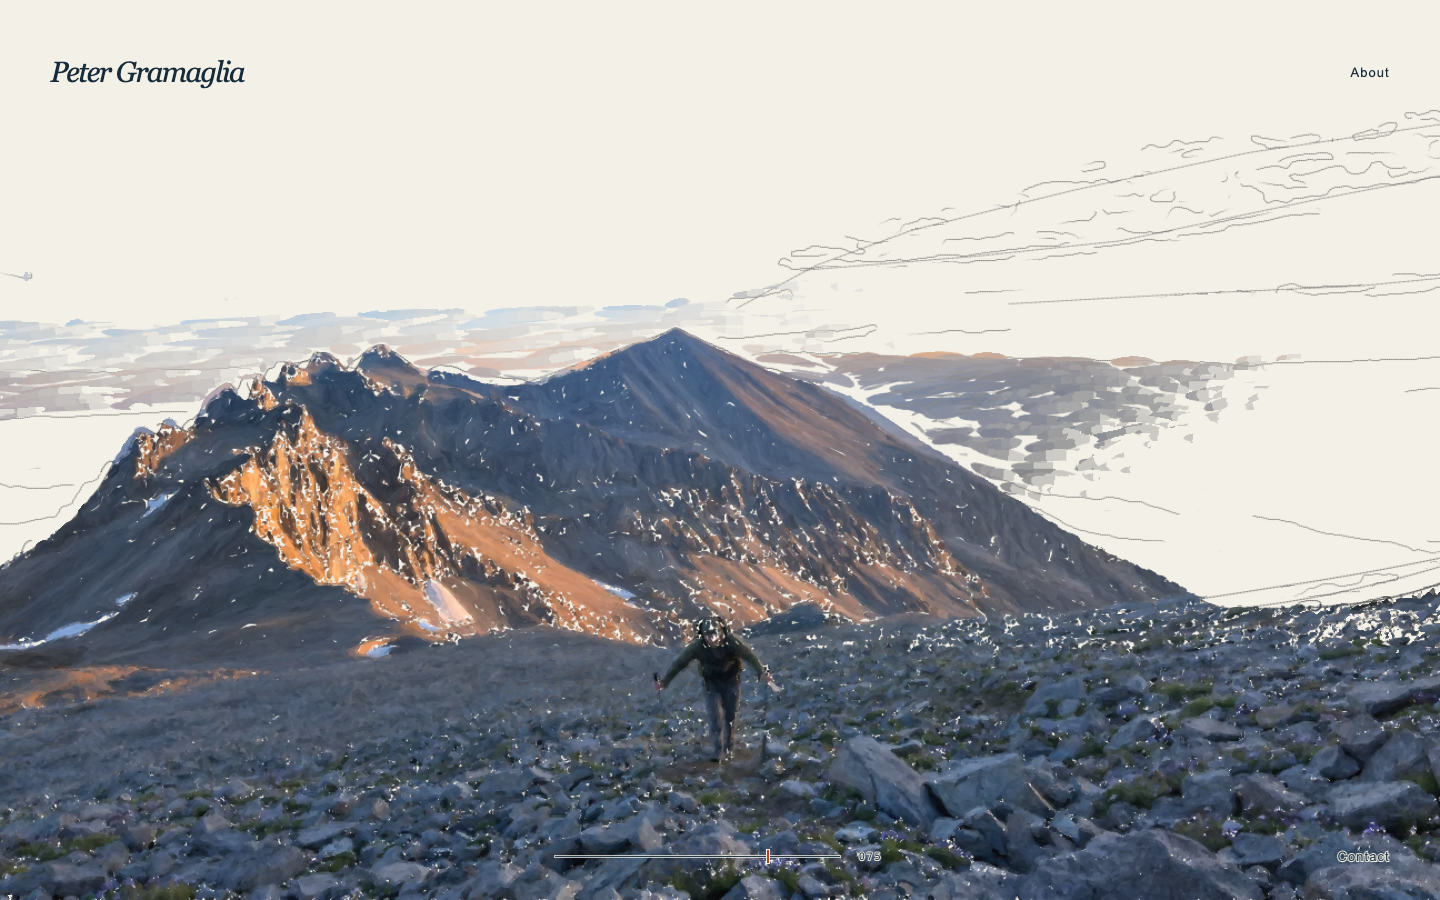
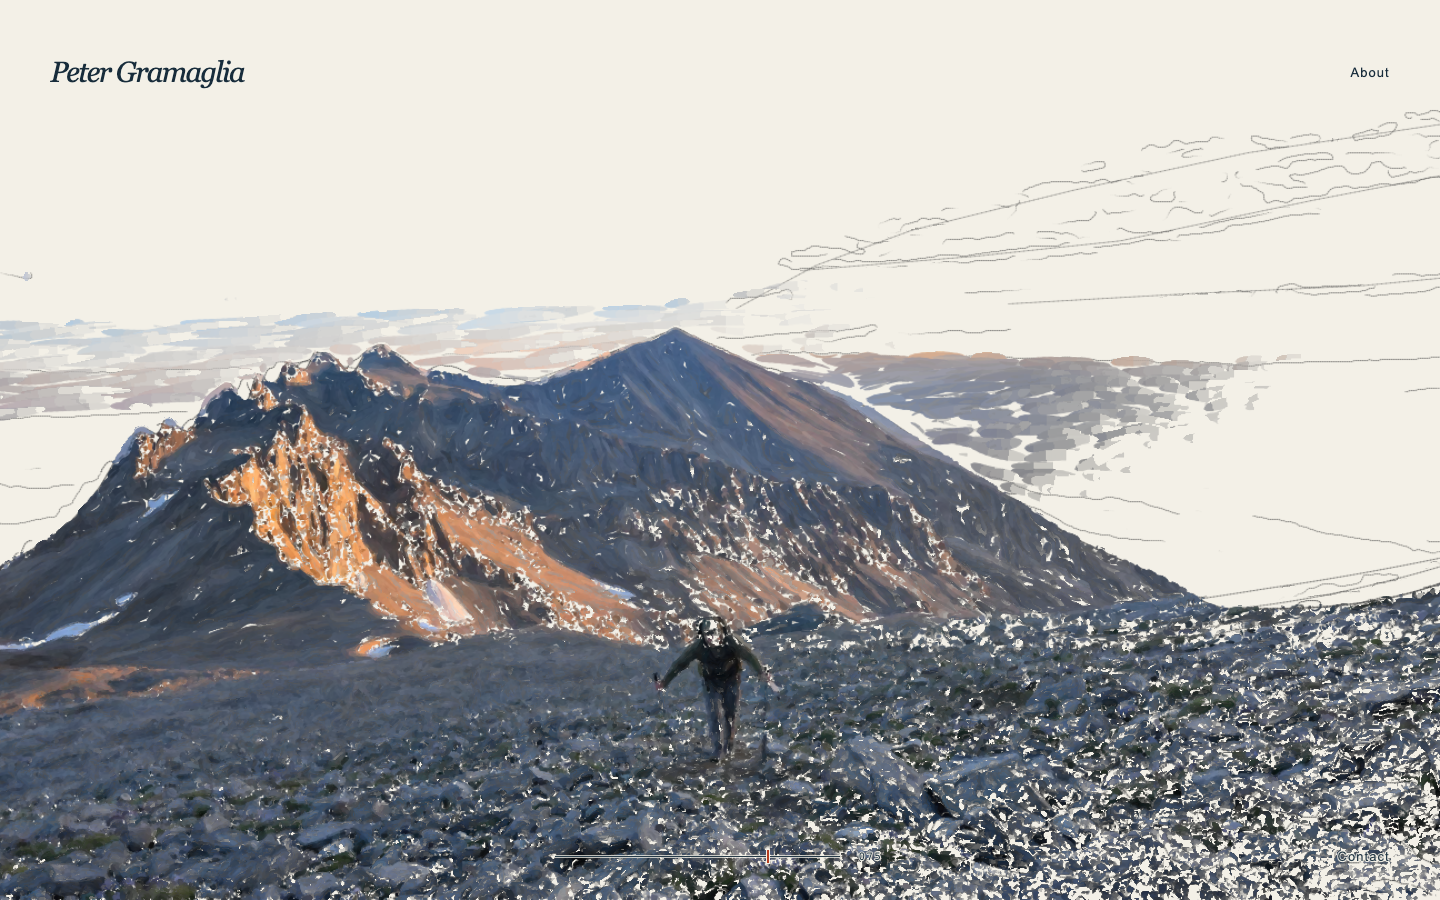
Draw colored contours before painting surface interiors

diff --git a/tests/browser/landscape.spec.js b/tests/browser/landscape.spec.js
@@ -266,7 +266,7 @@ test('mountain framework precedes the figure and foreground, then detail and col
   }
 });
 
-test('terrain develops before clouds and the blue sky completes last', async ({ page }, testInfo) => {
+test('color follows ridges, human and foreground edges, then surface fill and sky', async ({ page }, testInfo) => {
   // Match the desktop artwork aspect ratio so source landmarks map directly
   // to GPU pixels, independently of the UI or responsive crop behavior.
   await page.setViewportSize({ width: 1440, height: 810 });
@@ -300,27 +300,42 @@ test('terrain develops before clouds and the blue sky completes last', async ({ 
     // the pencil stage. Exclude blue pixels from the cloud-bank rectangle.
     return Object.fromEntries(samples.map(({ value, colors }) => [value, Object.fromEntries(
       Object.keys(regions).map((name) => {
-        let remaining = 0, total = 0;
+        let remaining = 0, total = 0, pigment = 0, finalPigment = 0;
         end[name].forEach((pixel, i) => {
           if (name === 'clouds' && pixel[2] - pixel[0] >= 45) return;
+          // Pencil gray mixed with ivory lies on 3R−4G+B=0. Measure
+          // pigment off that axis, allowing for byte-rounding noise.
+          const color = colors[name][i];
+          pigment += Math.max(0, Math.abs(3 * color[0] - 4 * color[1] + color[2]) - 5);
+          finalPigment += Math.max(0, Math.abs(3 * pixel[0] - 4 * pixel[1] + pixel[2]) - 5);
           for (let c = 0; c < 3; c++) {
             remaining += Math.abs(colors[name][i][c] - pixel[c]);
             total += Math.abs(start[name][i][c] - pixel[c]);
           }
         });
-        return [name, 1 - remaining / total];
+        return [name, { completion: 1 - remaining / total, pigment: pigment / finalPigment }];
       })
     )]));
   });
   await testInfo.attach('regional-progression.json', { body: JSON.stringify(stages, null, 2), contentType: 'application/json' });
-  for (const region of ['mountain', 'figure', 'foreground']) {
-    expect(stages[700][region]).toBeGreaterThan(.5);
-    expect(stages[700][region]).toBeGreaterThan(stages[700].clouds + .3);
+  // The first colored marks belong to mountain structure, not the figure
+  // or foreground. Their limited coverage must not fill the mountain face.
+  expect(stages[550].mountain.pigment).toBeGreaterThan(.005);
+  expect(stages[550].mountain.pigment).toBeLessThan(.3);
+  expect(stages[550].figure.pigment).toBe(0);
+  expect(stages[550].foreground.pigment).toBe(0);
+  // Human and foreground acquire colored edges while their interiors wait.
+  for (const region of ['figure', 'foreground']) {
+    expect(stages[650][region].pigment).toBeGreaterThan(.005);
+    expect(stages[650][region].pigment).toBeLessThan(.55);
+    expect(stages[900][region].completion).toBeGreaterThan(.9);
   }
-  expect(stages[700].clouds).toBeLessThan(.1);
-  expect(stages[850].sky).toBeLessThan(.1);
-  expect(stages[900].distant).toBeGreaterThan(.9);
-  expect(stages[900].clouds).toBeGreaterThan(.8);
-  expect(stages[900].sky).toBeLessThan(.6);
-  expect(stages[990].sky).toBeGreaterThan(.95);
+  expect(stages[650].mountain.pigment).toBeLessThan(.4);
+  expect(stages[800].mountain.pigment).toBeGreaterThan(stages[650].mountain.pigment + .3);
+  expect(stages[700].clouds.pigment).toBe(0);
+  expect(stages[850].sky.pigment).toBeLessThan(.1);
+  expect(stages[900].distant.completion).toBeGreaterThan(.9);
+  expect(stages[900].clouds.completion).toBeGreaterThan(.8);
+  expect(stages[900].sky.completion).toBeLessThan(.6);
+  expect(stages[990].sky.completion).toBeGreaterThan(.95);
 });

diff --git a/scripts/prepare-strokes.py b/scripts/prepare-strokes.py
@@ -280,42 +280,55 @@ def make(name):
             delta=directions[iy,ix]*.65
             return np.array([[x,y]-delta,[x,y]+delta])
         return np.asarray(result)
-    # Timing uses only geometry, never another draw from the painting RNG.
-    # Cluster centers establish the peak, lit cliff, climber and large rocks
-    # before surrounding terrain. Fine work follows its own broad cluster.
-    anchors={
-        'desktop': [(.472,.42,.465,.15,.16),(.24,.54,.485,.12,.15),
-                    (.55,.60,.535,.17,.12),(.72,.88,.54,.20,.16),(.25,.90,.57,.22,.16)],
-        'mobile': [(.439,.39,.465,.21,.13),(.10,.55,.49,.20,.15),
-                   (.57,.55,.535,.23,.13),(.76,.88,.54,.25,.16),(.22,.91,.57,.27,.17)]
-    }
-    # Prioritize the actual silhouette and poles, with a soft spatial falloff.
-    # A rectangular subject box would reveal an artificial painted tile.
-    figure_mask=Image.new('L',size)
-    figure_draw=ImageDraw.Draw(figure_mask)
-    figure_draw.polygon([tuple(q) for q in points(g['person'])],fill=255)
-    for line in person_details[name][-2:]:
-        figure_draw.line([tuple(q) for q in points(line)],fill=255,width=2)
-    figure_distance=distance_transform_edt(np.asarray(figure_mask)==0)
+    # Color follows the same construction hierarchy as pencil. Distances are
+    # measured to narrow line masks, never filled subject/terrain regions.
+    # This schedules existing painted gestures without changing their pixels.
+    def line_distance(lines):
+        mask=Image.new('L',size);draw=ImageDraw.Draw(mask)
+        for line in lines:draw.line([tuple(q) for q in line],fill=255,width=1)
+        return distance_transform_edt(np.asarray(mask)==0)
+    ridge_lines=[points(g['skyline']),points(g['ridges'][0])]
+    ridge_lines.extend(points(g['spurs'][i]) for i in [0,2,3])
+    ridge_distance=line_distance(ridge_lines)
+    figure_lines=[points(g['person']+[g['person'][0]])]
+    figure_lines.extend(points(line) for line in person_details[name][-2:])
+    figure_distance=line_distance(figure_lines)
+    figure_interior_mask=Image.new('L',size)
+    ImageDraw.Draw(figure_interior_mask).polygon([tuple(q) for q in points(g['person'])],fill=255)
+    figure_interior=np.asarray(figure_interior_mask)>0
+    foreground_lines=[np.column_stack((np.arange(w)[::3],line[::3])) for line in bounds[2:-1]]
+    foreground_distance=line_distance(foreground_lines+foreground_edges)
     def stroke_jitter(p):
         x,y=np.mean(p,axis=0)
         return (np.sin(x*12.9898+y*78.233)*43758.5453)%1
     def terrain_schedule(p,width,detail=False,fill=False):
         x,y=np.mean(p,axis=0)/[w,h]
-        onset=min(t+.105*np.hypot((x-cx)/rx,(y-cy)/ry)
-                  for cx,cy,t,rx,ry in anchors[name])
-        ix=int(np.clip(x*w,0,w-1));iy=int(np.clip(y*h,0,h-1))
-        human=.50+.055*np.clip((y-by0)/(by1-by0),0,1)+figure_distance[iy,ix]*.0035
-        onset=min(onset,human)
-        onset=np.clip(onset,.465,.715)+(.030 if detail else 0)
+        ix=np.clip(p[:,0].astype(int),0,w-1);iy=np.clip(p[:,1].astype(int),0,h-1)
+        # Include the brush radius and almost the entire path: a wide body
+        # merely touching a contour must not expose the adjacent surface early.
+        def near(distance,band):
+            return np.percentile(distance[iy,ix],90)+width*.5<=band
         jitter=stroke_jitter(p)
         length=np.linalg.norm(np.diff(p,axis=0),axis=1).sum()
-        structural=np.clip((length-6)/24,0,1)*np.clip(width/4.5,0,1)
-        onset+=.015*(1-structural)+(.035 if fill else 0)
-        span=np.clip(length/(w*.9),.014,.032)
-        # Per-stroke staggering exceeds pigment maturation, so a region
-        # accumulates distinct gestures instead of revealing as a radial wipe.
-        return np.clip(onset+(jitter-.5)*.055,.468,.770),span
+        span=np.clip(length/(w*.9),.014,.028)
+        follow=(.004 if detail else 0)+(.008 if fill else 0)
+        # Terrain boundaries pass behind the person. They must not reveal a
+        # horizontal strip through an otherwise unpainted human interior.
+        crosses_figure=np.any(figure_interior[iy,ix]&(figure_distance[iy,ix]>4))
+        if not crosses_figure and near(ridge_distance,7):
+            onset=.470+.055*x+(jitter-.5)*.012+follow
+        elif not crosses_figure and near(figure_distance,4):
+            onset=.570+.040*np.clip((y-by0)/(by1-by0),0,1)+(jitter-.5)*.010+follow
+        elif not crosses_figure and near(foreground_distance,5):
+            onset=.575+.045*x+(jitter-.5)*.012+follow
+        else:
+            # Only after both outline passes do the mountain, human and rock
+            # surfaces accumulate body strokes, then detail and compact fill.
+            rank=np.clip(.45*x+.55*(y-.35)/.65,0,1)
+            onset=.675+.075*rank+(jitter-.5)*.045
+            onset+=(.018 if detail else 0)+(.025 if fill else 0)
+            onset=max(.675,onset)
+        return np.clip(onset,.468,.810),span
     plates[1].schedule=lambda p,width:terrain_schedule(p,width)
     plates[2].schedule=lambda p,width:terrain_schedule(p,width,True)
     # Overlapping body strokes share the tapered sky brush language. Seed

diff --git a/README.md b/README.md
@@ -44,7 +44,7 @@ The [stroke revision](docs/stroke-revision.md) describes the current drawing beh
 
 There are two aspect-specific drawing sets. The desktop composition uses Peter's approved AI-expanded panorama, with the left ridge corrected against a second reference photograph. The mobile drawing is based on the original portrait photograph. Generated edges are disclosed in About. Contour-like marks are an artistic drawing, not elevation data. No coordinates, EXIF, or camera/location metadata are retained in the published derivatives.
 
-At every slider position, the artwork consists of drawn strokes on ivory. Each stroke has a per-pixel arrival time that increases along its path. Major peaks and ridges appear first, followed by the rough human silhouette and foreground boundaries. Only then do details and colored brushstrokes fill the scene. Important mountain features, the climber, and foreground rocks are painted first; supporting terrain, distant mountains, and clouds follow; blue sky finishes last. Opacity and pigment mature relative to each stroke's own arrival, so already painted regions stay complete while later regions remain sketched. At full progress the canvas remains a colored drawing. No source photograph is loaded at runtime. The static fallback is the finished drawing, composited from the same delivered stroke plates. Unboxed typography uses a narrow ivory glyph halo for contrast; the visible control contains only the slider and its number. No continuous animation runs after the control settles; reduced motion removes easing while preserving direct control.
+At every slider position, the artwork consists of drawn strokes on ivory. Each stroke has a per-pixel arrival time that increases along its path. Major peaks and ridges appear first, followed by the rough human silhouette and foreground boundaries. Color repeats that hierarchy: ridge strokes first, human and foreground edge strokes next, then surface fill and finer detail. Distant mountains and clouds develop afterward; blue sky finishes last. Opacity and pigment mature relative to each stroke's own arrival, so already painted regions stay complete while later regions remain sketched. At full progress the canvas remains a colored drawing. No source photograph is loaded at runtime. The static fallback is the finished drawing, composited from the same delivered stroke plates. Unboxed typography uses a narrow ivory glyph halo for contrast; the visible control contains only the slider and its number. No continuous animation runs after the control settles; reduced motion removes easing while preserving direct control.
 
 ### Regenerating assets
 

diff --git a/docs/review-notes.md b/docs/review-notes.md
@@ -92,3 +92,11 @@ Reordered the pencil stage to follow the requested drawing hierarchy. The openin
 Independent Astra high visual and rendering reviews approved both desktop and mobile. The audit found no untimed covered pencil pixels and confirmed that all colored plates, colored timing maps, and finished paintings remain byte-identical. No renderer, interface, or later color-sequence changes were needed.
 
 Validation: 10 Node tests and 18 local Chrome browser tests pass. The revised GPU regression checks mountain-only structure at 20 percent, rough human/foreground outlines and an empty cloud bank at 40 percent, then detail growth and pigment. It reproduced the previous premature cloud detail before the fix and passes with the revised assets in both compositions. Existing regional painting, reversal, fallback, and interaction checks still pass. Updated previews explicitly show the 20/40/60-percent hierarchy.
+
+## Color follows the same construction hierarchy
+
+The preceding revision changed pencil order; this revision applies that order to the actual colored strokes. Narrow distance bands prioritize existing paint along major ridges and peaks, followed by the human boundary, poles, and defining foreground edges. All other body/detail/fill strokes wait until roughly 67 percent or later. Classification considers most of the path and brush radius, preventing wide marks that merely touch an edge from exposing a surface early. Foreground priority excludes strokes crossing the human's interior.
+
+Independent Astra high visual and rendering reviews approved desktop and mobile. Actual 55-percent images show colored ridge bands with unpainted mountain faces and figure; 65-percent images add colored human and foreground boundaries with open interiors; 75-percent images introduce body painting. Audits confirm byte-identical pencil assets, RGBA plates, and finished paintings, valid color timing, and preserved later background/sky paint. No renderer or UI changes were needed.
+
+Validation: 10 Node tests and 18 local Chrome browser tests pass. The color-order regression measures pigment independently of pencil using its distance from the grayscale/ivory color axis, requiring ridge paint before figure/foreground pigment, limited outline coverage before surface fill, and sky completion last. Pencil hierarchy, GPU/fallback agreement, reversal, failure paths, and interaction checks remain passing. Refreshed previews show the colored-outline stages explicitly.

diff --git a/docs/stroke-revision.md b/docs/stroke-revision.md
@@ -59,3 +59,9 @@ The interface contains an unboxed italic serif name, About and Contact text link
 The opening sketch now has three distinct phases: major mountain peaks and ridges first, then the rough human silhouette and defining foreground edges, then finer details and colored strokes. Sparse structural lines establish the scene before source-traced rock, mountain, figure, and cloud details appear. Cloud contours wait for the later background work rather than filling the early sky.
 
 Only the pencil plate and its timing change for this refinement. The colored stroke geometry, palette, regional paint order, finished painting, and minimal interface remain unchanged. GPU checks in both compositions require mountain lines before the human/foreground, rough scene outlines before cloud detail, and detail/pigment growth afterward.
+
+## The same hierarchy for colored strokes
+
+Color now repeats the construction order, rather than filling the mountain and human immediately after the pencil stages. Existing colored strokes close to major ridge lines arrive first. Strokes along the human silhouette, poles, and defining foreground edges arrive next. Mountain faces, the human's interior, ground surfaces, and compact detail strokes wait until those colored boundaries are established. Distant terrain, clouds, and the final blue-sky sequence retain their later timing.
+
+Narrow line-distance bands classify existing strokes without changing their geometry or palette. Classification includes the stroke width and most of its path, so a large mark merely touching a boundary cannot reveal a broad surface early. Figure priority uses its outline, not a filled polygon. The final painting and all pencil assets remain unchanged. GPU tests measure actual pigment independently from gray pencil to verify the color hierarchy.
